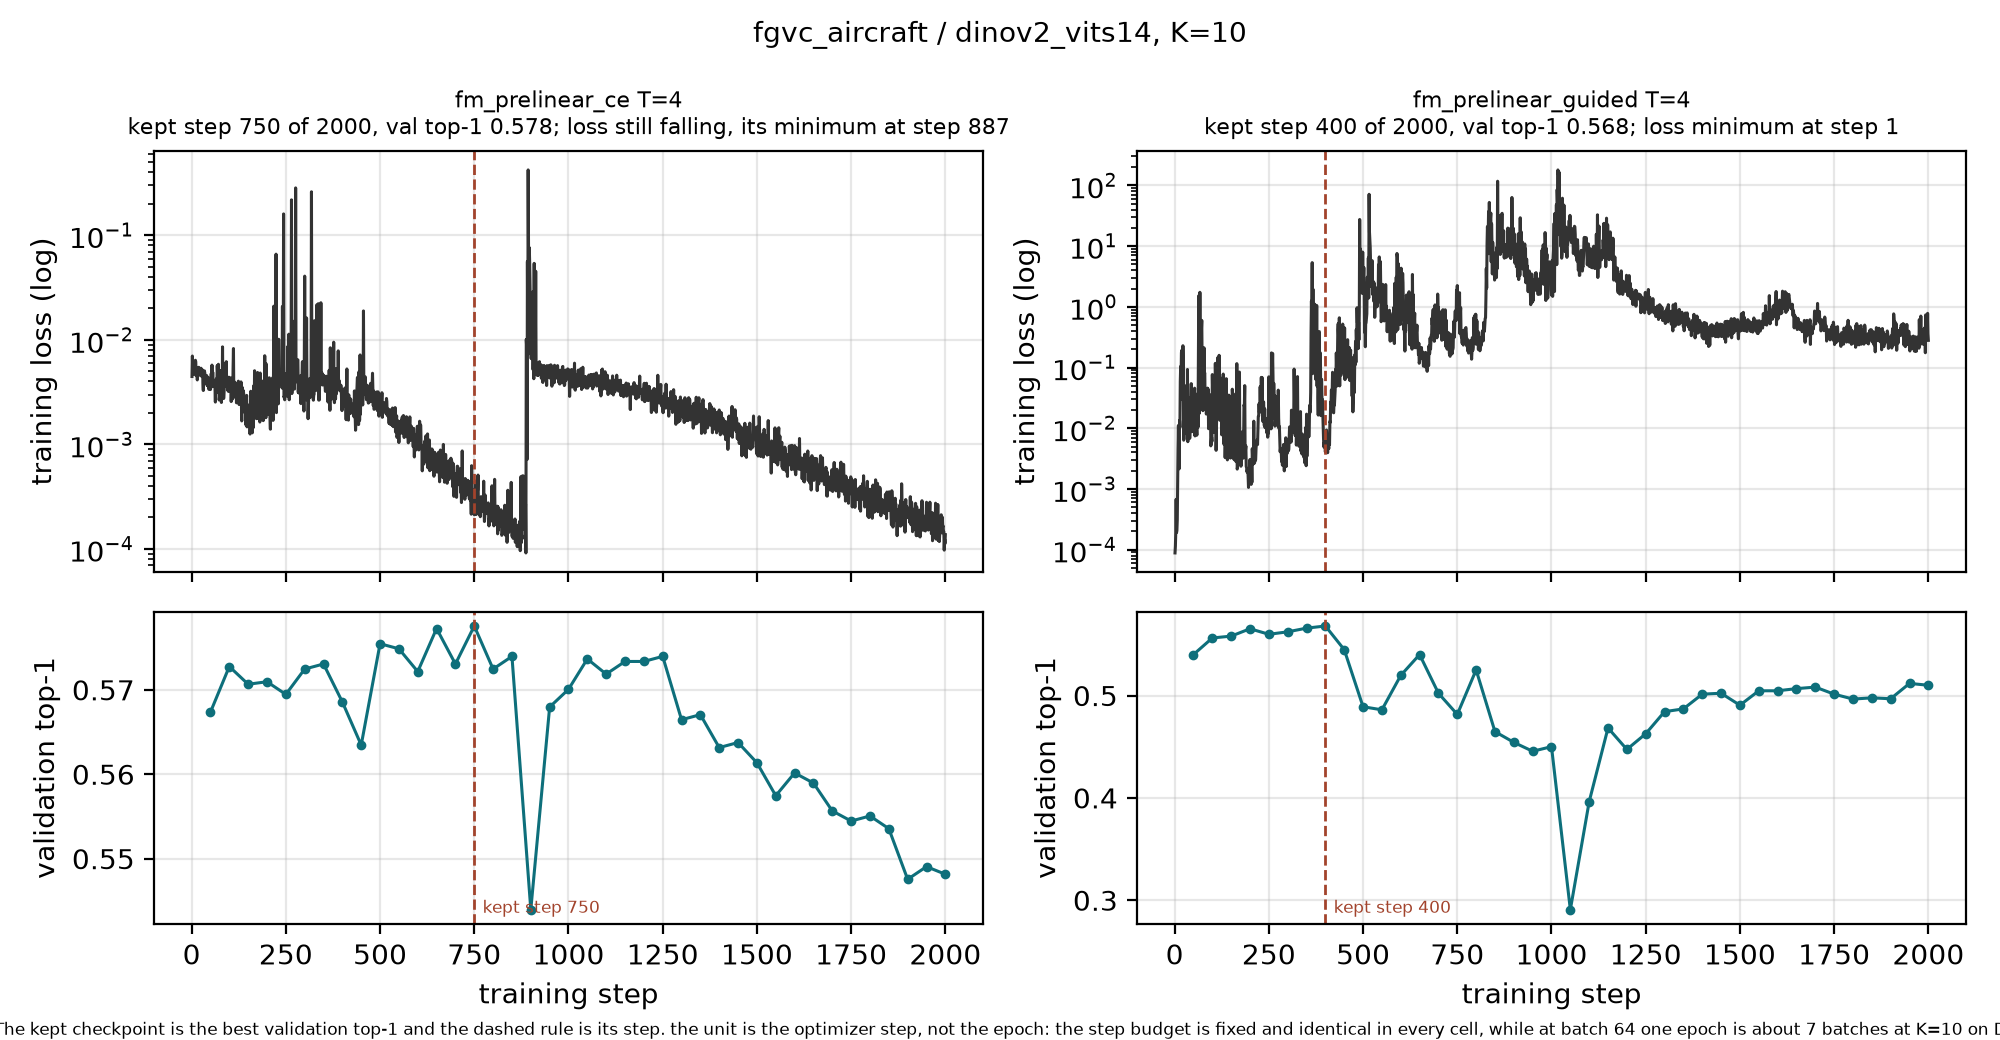
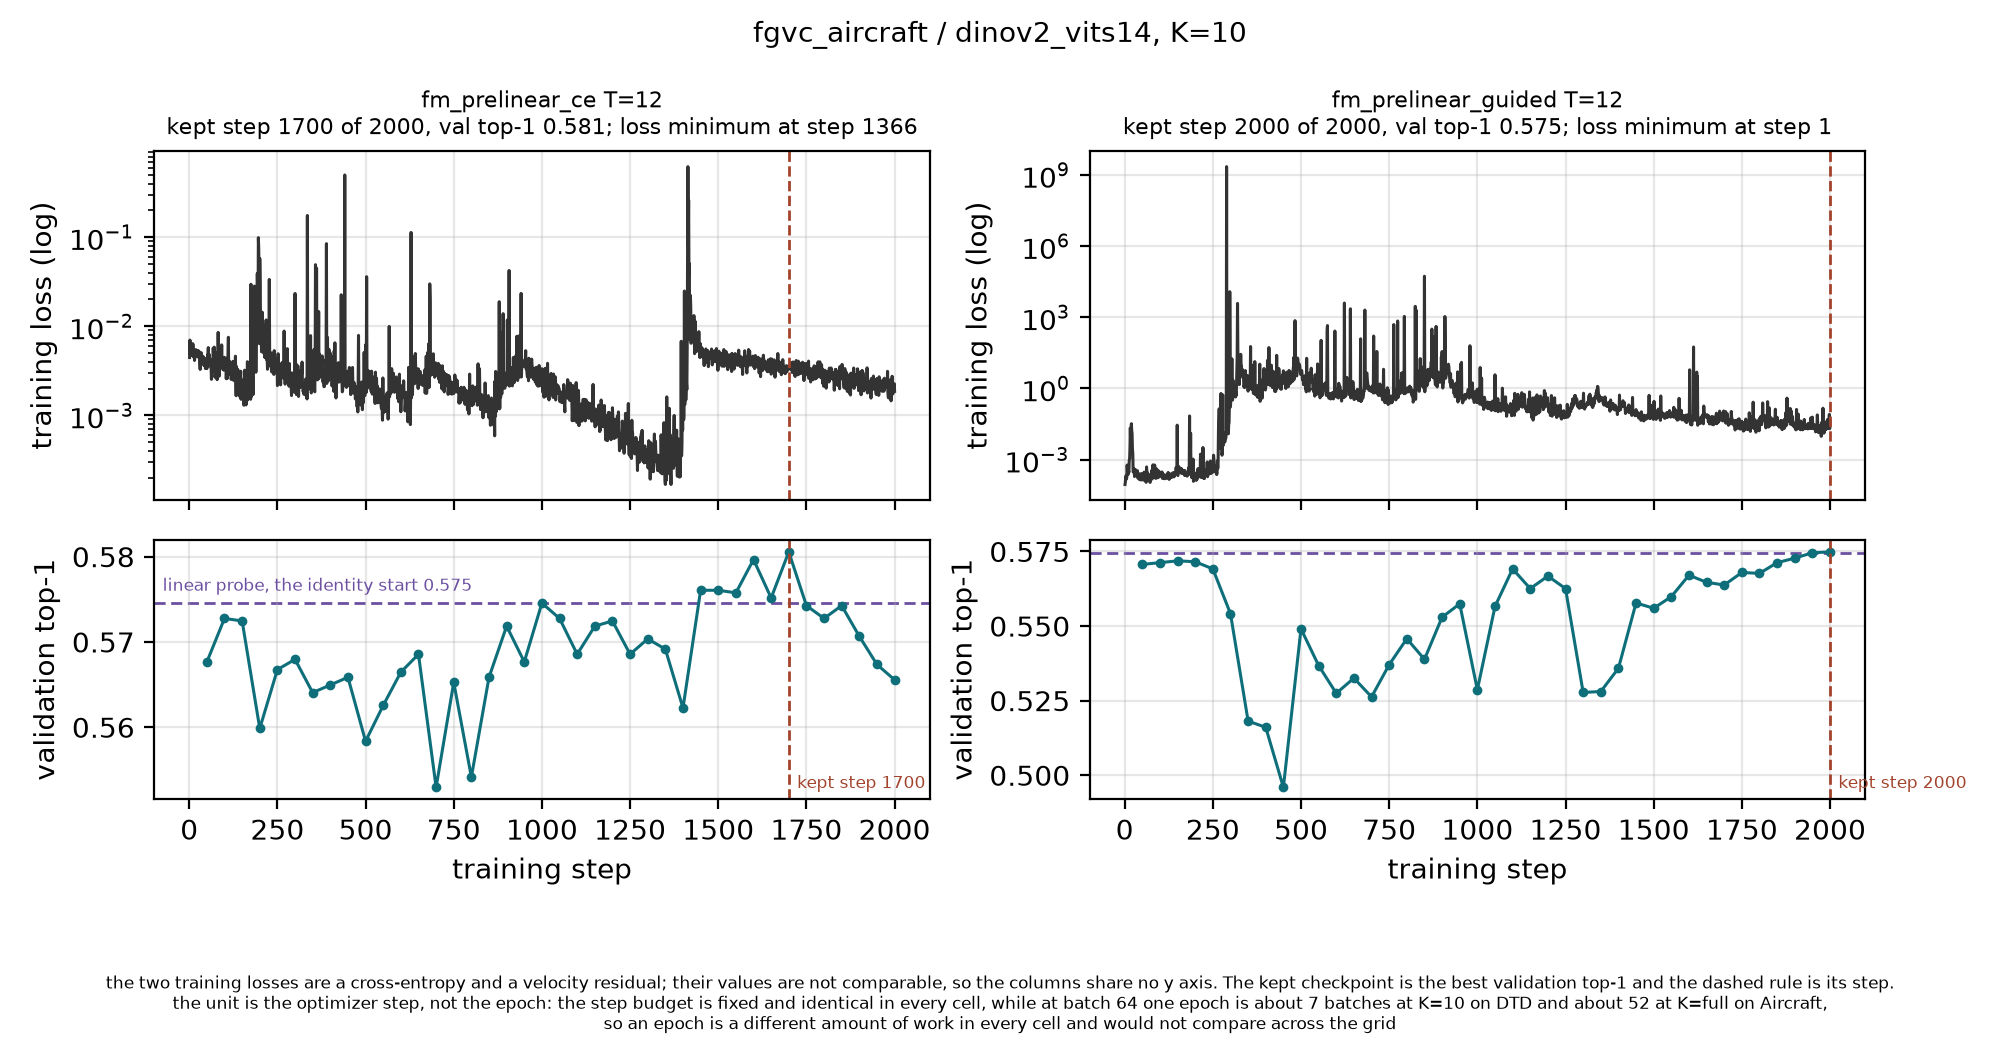
feat: draw the Stage 3 figures at T=12, with the probe on the validation row
His Stage 3 write-up says to choose a single number of Euler steps and use it
throughout the stage. The prose was already written at T=12 while only the
panels were drawn at T=4, so a displacement figure rendered at T=4 sat directly
above a table headed with a T=12 null-space fraction. Both step counts are in
the grid and all 108 runs carry rowspace.json, so nothing is rerun.

Stage 2 keeps feature_t at 4. Its write-up evaluates both step counts and its
prose is written for the shorter solve.

P2 gains the probe's kept validation top-1 as a rule on its bottom row. The
block is initialized to exact identity, so that number is where every Stage 3
curve starts, and without it the reader needs a second figure to say whether
training improved on the probe or degraded from it. The rule is read from the
probe run's own epochs.csv at the epoch summary.json kept, for the reason the
kept step is read that way, and the cell's probe run is resolved with the rest
of the plan so a missing one refuses before any file is written. The label
drops under the rule where the rule sits near the top of the axes, which is
the common case when every point is below it.

plot_selection and plot_displacement still placed their captions with a bare
fig.text after tight_layout, so both clipped. Both now go through draw_caption,
and the epoch note is split so no line runs past the figure width.

The row-space caption overstated the guided strategy: its target displacement
[…]

diff --git a/src/fm_fewshot/services/evaluation/figures.py b/src/fm_fewshot/services/evaluation/figures.py
@@ -597,18 +597,19 @@ def selection_note(
 EPOCH_NOTE = (
     "the unit is the optimizer step, not the epoch: the step budget is fixed and "
     "identical in every cell, while at batch 64 one epoch is about 7 batches at "
-    "K=10 on DTD and about 52 at K=full on Aircraft, so an epoch is a different "
-    "amount of work in every cell and would not compare across the grid"
+    "K=10 on DTD and about 52 at K=full on Aircraft," + chr(10) + "so an epoch is "
+    "a different amount of work in every cell and would not compare across the grid"
 )
 
 SELECTION_CAPTION = (
     "selection is on validation top-1, not on the loss; the dashed rule is the "
-    f"step the run kept. {EPOCH_NOTE}"
+    f"step the run kept.{chr(10)}{EPOCH_NOTE}"
 )
 
 
 def plot_selection(
-    *, panels, title: str, out: Path, dpi: int = 200, caption: str = SELECTION_CAPTION
+    *, panels, title: str, out: Path, dpi: int = 200, caption: str = SELECTION_CAPTION,
+    reference: dict | None = None,
 ) -> Path:
     """S7. Two rows sharing one x axis per scheme, never a twin y axis.
 
@@ -659,6 +660,26 @@ def plot_selection(
                 0.5, 0.5, "no validation recorded (eval_every: 0)",
                 ha="center", va="center", fontsize=7, transform=bottom.transAxes,
             )
+        if reference is not None:
+            value = float(reference["value"])
+            bottom.axhline(
+                value, color="#6B4FA0", linewidth=1.0,
+                linestyle=(0, (4, 2)), zorder=1,
+            )
+            if column == 0:
+                # The rule often sits above every point, which pushes it to the
+                # top of the axes; a label placed above it there is cut by the
+                # spine. Read the settled limits and drop the label under the
+                # rule when it is close to the top.
+                low, high = bottom.get_ylim()
+                near_top = high - low > 0 and (value - low) / (high - low) > 0.8
+                bottom.annotate(
+                    f"{reference['label']} {value:.3f}",
+                    xy=(0, value), xycoords=("axes fraction", "data"),
+                    xytext=(3, -4 if near_top else 3), textcoords="offset points",
+                    va="top" if near_top else "bottom",
+                    fontsize=6, color="#6B4FA0",
+                )
         bottom.set_ylabel("validation top-1")
         bottom.set_xlabel("training step")
         bottom.grid(alpha=0.3)
@@ -675,8 +696,7 @@ def plot_selection(
             )
 
     fig.suptitle(title, fontsize=10)
-    fig.text(0.5, 0.005, caption, ha="center", fontsize=6)
-    fig.tight_layout()
+    draw_caption(fig, caption)
     return _save(fig, out)
 
 
@@ -859,6 +879,40 @@ def read_loss_curve(path: Path) -> tuple[list[int], list[float]]:
     return [int(r["step"]) for r in rows], [float(r["train_loss"]) for r in rows]
 
 
+def read_probe_validation(run_dir: Path) -> float:
+    """The linear probe's validation top-1 at the checkpoint it kept.
+
+    Stage 3 initializes its block to exact identity, so at step 0 the system is
+    this probe. Drawing the number as a rule on P2's validation row is what
+    makes "did training improve on the probe or degrade from it" readable
+    without holding two figures side by side.
+
+    The epoch comes from `summary.json` rather than from the column's argmax,
+    for the reason `read_selection` takes the kept step from there: the figure
+    and the table have to name the same checkpoint.
+    """
+    run_dir = Path(run_dir)
+    summary = json.loads((run_dir / "summary.json").read_text(encoding="utf-8"))
+    kept = summary.get("best_epoch")
+    with (run_dir / "epochs.csv").open(encoding="utf-8") as handle:
+        rows = list(csv.DictReader(handle))
+    if not rows:
+        raise MissingRunError(
+            f"probe run {run_dir.name} recorded no epochs, so its validation "
+            "reference cannot be drawn; nothing was written"
+        )
+    if kept is not None:
+        for row in rows:
+            if int(row["epoch"]) == int(kept):
+                return float(row["val_accuracy"])
+        raise MissingRunError(
+            f"probe run {run_dir.name} kept epoch {kept}, which is not in its "
+            "epochs.csv; the reference would name a checkpoint the run does not "
+            "have, so nothing was written"
+        )
+    return max(float(row["val_accuracy"]) for row in rows)
+
+
 def read_selection(run_dir: Path) -> dict:
     """Everything a selection figure draws for one run, straight from the run.
 
@@ -897,15 +951,16 @@ STAGE3_HEADS = ("fm_prelinear_ce", "fm_prelinear_guided")
 STAGE3_CURVES_CAPTION = (
     "the two training losses are a cross-entropy and a velocity residual; their "
     "values are not comparable, so the columns share no y axis. The kept "
-    "checkpoint is the best validation top-1 and the dashed rule is its step. "
-    + EPOCH_NOTE
+    "checkpoint is the best validation top-1 and the dashed rule is its step."
+    + chr(10) + EPOCH_NOTE
 )
 
 DISPLACEMENT_CAPTION = (
     "row(W) is the only part of the displacement the frozen probe can see, so the "
-    "null(W) fraction is capacity the loss cannot reward. fm_prelinear_guided is "
-    "confined to row(W) by construction and fm_prelinear_ce is not; both near zero, "
-    "or both large, falsifies that reading"
+    "null(W) fraction is capacity the loss cannot reward. fm_prelinear_guided builds "
+    "its target displacement inside row(W), but the fitted endpoint is not held "
+    "there," + chr(10) + "so a high null fraction is a fact about the fit rather "
+    "than a contradiction; fm_prelinear_ce is not constrained either way"
 )
 
 DISPLACEMENT_SCATTER_POINTS = 400
@@ -1120,8 +1175,7 @@ def plot_displacement(
     right.legend(fontsize=6, loc="best", framealpha=0.85)
 
     fig.suptitle(title, fontsize=10)
-    fig.text(0.5, 0.005, DISPLACEMENT_CAPTION, ha="center", fontsize=6)
-    fig.tight_layout()
+    draw_caption(fig, DISPLACEMENT_CAPTION)
     return _save(fig, out)
 
 
@@ -1158,6 +1212,7 @@ __all__ = [
     "project_jointly",
     "prototypes_for",
     "read_loss_curve",
+    "read_probe_validation",
     "read_selection",
     "reduced_probe",
     "require_cells",

diff --git a/tests/unit/test_stage3_figures.py b/tests/unit/test_stage3_figures.py
@@ -71,6 +71,12 @@ FM_PARAMS: dict[str, object] = {
 }
 EVAL_EVERY = 2
 N_TRAIN_STEPS = 4
+# The probe's own selection record. The kept epoch is deliberately not the last
+# one and not the best one, so a reference drawn from the argmax or from the
+# final row would show a different number and the test would catch it.
+PROBE_EPOCHS = ((1, 0.41), (2, 0.55), (3, 0.62))
+PROBE_KEPT_EPOCH = 2
+PROBE_KEPT_VAL = 0.55
 # The step the run kept, placed so it is neither the loss minimum nor the
 # validation argmax of the stored curve. A figure that recomputed either would
 # mark a different step and the test would see it.
@@ -165,6 +171,8 @@ def _write_run(results_dir: Path, cfg: ExperimentConfig, top1: float) -> Path:
     payload = {"run_id": cfg.run_name, "config": asdict(cfg), "test_top1": top1}
     if cfg.head.startswith("fm_"):
         payload["best_epoch"] = SELECTED_STEP
+    if cfg.head == "linear_probe":
+        payload["best_epoch"] = PROBE_KEPT_EPOCH
     (run_dir / "summary.json").write_text(
         json.dumps(payload, indent=2, sort_keys=True), encoding="utf-8"
     )
@@ -172,6 +180,15 @@ def _write_run(results_dir: Path, cfg: ExperimentConfig, top1: float) -> Path:
         (run_dir / "loss_curve.csv").write_text(
             "\n".join(_loss_curve_rows()) + "\n", encoding="utf-8"
         )
+    if cfg.head == "linear_probe":
+        # The epoch record the evaluation loop writes for a probe run. P2 draws
+        # its kept row as the identity start of every Stage 3 curve.
+        rows = ["epoch,train_loss,val_loss,val_accuracy"]
+        rows += [
+            f"{epoch},{1.0 / epoch},{2.0 / epoch},{value}"
+            for epoch, value in PROBE_EPOCHS
+        ]
+        (run_dir / "epochs.csv").write_text("\n".join(rows) + "\n", encoding="utf-8")
     return run_dir
 
 
@@ -639,6 +656,71 @@ class TestTrainingCurves:
         )
         assert seen, "plot_selection drew nothing"
         assert not any(call.get("sharey") for call in seen)
+
+    def test_draws_the_probe_as_the_reference_every_curve_starts_from(
+        self, tree: Path, spec_path: Path, monkeypatch: pytest.MonkeyPatch
+    ) -> None:
+        """The block is initialized to exact identity, so at step 0 the system is
+        the probe. Without the rule, whether a curve improved on the probe or
+        degraded from it needs a second figure to answer."""
+        drawn = self._drawn(tree, spec_path, monkeypatch)
+        assert drawn["reference"]["value"] == pytest.approx(PROBE_KEPT_VAL)
+        assert "probe" in drawn["reference"]["label"]
+
+    def test_the_reference_is_the_probe_epoch_summary_json_kept(
+        self, tree: Path
+    ) -> None:
+        """Not the argmax and not the last epoch, both of which sit elsewhere in
+        the fixture's record, for the reason the kept step is read that way."""
+        assert max(v for _, v in PROBE_EPOCHS) != PROBE_KEPT_VAL
+        assert PROBE_EPOCHS[-1][0] != PROBE_KEPT_EPOCH
+        run_dir = tree / "results" / f"linear_probe-{_k_tag(REPRESENTATIVE_K)}-0"
+        assert figures.read_probe_validation(run_dir) == pytest.approx(PROBE_KEPT_VAL)
+
+    def test_a_probe_run_without_an_epoch_record_refuses(
+        self, tree: Path, spec_path: Path
+    ) -> None:
+        """Silently dropping the rule would leave a panel that looks complete and
+        answers the stage's question wrongly."""
+        for run in (tree / "results").glob("linear_probe-*"):
+            (run / "epochs.csv").unlink()
+        with pytest.raises(FileNotFoundError):
+            _generate(tree, spec_path)
+
+    def test_the_caption_clears_the_axes_it_sits_under(
+        self, tree: Path
+    ) -> None:
+        """plot_selection is a two-row figure 5.2 inches tall and its caption runs
+        to three lines. tight_layout does not know a fig.text exists, so the
+        reserve has to be checked rather than assumed."""
+        out = figures.plot_selection(
+            panels=[
+                {
+                    "name": name,
+                    "steps": [1, 2, 3, 4],
+                    "losses": [1e3, 1e2, 1e1, 1e0],
+                    "validation": [(2, 0.5), (4, 0.6)],
+                    "selected_step": 2,
+                }
+                for name in ("fm_prelinear_ce T=12", "fm_prelinear_guided T=12")
+            ],
+            title="t",
+            caption=figures.STAGE3_CURVES_CAPTION,
+            out=tree / "reserve.png",
+        )
+        assert out.exists()
+        fig = figures.plt.figure(figsize=(10.0, 5.2), dpi=200)
+        text = fig.text(
+            0.5, 0.005, figures.STAGE3_CURVES_CAPTION, ha="center", va="bottom",
+            fontsize=6,
+        )
+        fig.canvas.draw()
+        box = text.get_window_extent(fig.canvas.get_renderer())
+        lines = figures.STAGE3_CURVES_CAPTION.count(chr(10)) + 1
+        reserved = (0.035 * lines + 0.015) * fig.get_figheight() * fig.dpi
+        assert box.y1 <= reserved, "the caption runs into the reserved axes area"
+        assert box.width <= fig.get_figwidth() * fig.dpi, "the caption is clipped sideways"
+        figures.plt.close(fig)
 
     def test_says_on_the_figure_why_the_two_losses_are_not_one_scale(
         self, tree: Path, spec_path: Path, monkeypatch: pytest.MonkeyPatch

diff --git a/src/fm_fewshot/services/evaluation/make_stage3_figures.py b/src/fm_fewshot/services/evaluation/make_stage3_figures.py
@@ -208,6 +208,9 @@ class _Plan:
     viz_ids: list[int]
     colors: dict[str, str]
     runs: dict[str, Path]
+    # The Stage 1 probe run for this cell. The block starts as the identity, so
+    # this run's kept validation top-1 is where every Stage 3 curve begins.
+    probe_run: Path
     test_x: torch.Tensor
     test_y: torch.Tensor
     # The K whose cell is the Main Comparison here, or None on an encoder that
@@ -271,6 +274,14 @@ def _plan(spec: dict, results_dir: Path, data_root: Path, cells: list[CellSummar
                 load_rowspace(run_dir, name=figures.scheme_label(head, settings["feature_t"]))
                 runs[head] = run_dir
 
+            # Resolved here rather than at draw time, with everything else, so a
+            # cell whose probe run is missing refuses before any file is written.
+            probe_run = find_run(
+                results_dir, dataset=dataset, encoder=encoder, head="linear_probe",
+                k=settings["k"], subset_seed=settings["subset_seed"],
+            )
+            figures.read_probe_validation(probe_run)
+
             plans.append(
                 _Plan(
                     dataset=dataset,
@@ -279,6 +290,7 @@ def _plan(spec: dict, results_dir: Path, data_root: Path, cells: list[CellSummar
                     viz_ids=[class_names.index(name) for name in viz_classes],
                     colors=colors,
                     runs=runs,
+                    probe_run=probe_run,
                     test_x=test_x,
                     test_y=test_y,
                     marked_k=(
@@ -347,6 +359,10 @@ def make_stage3_figures(
                 ],
                 title=f"{stem}, K={k_tag}",
                 caption=figures.STAGE3_CURVES_CAPTION,
+                reference={
+                    "value": figures.read_probe_validation(plan.probe_run),
+                    "label": "linear probe, the identity start",
+                },
                 out=out_dir / f"stage3_curves_{encoder}.png", dpi=dpi,
             )
         )
